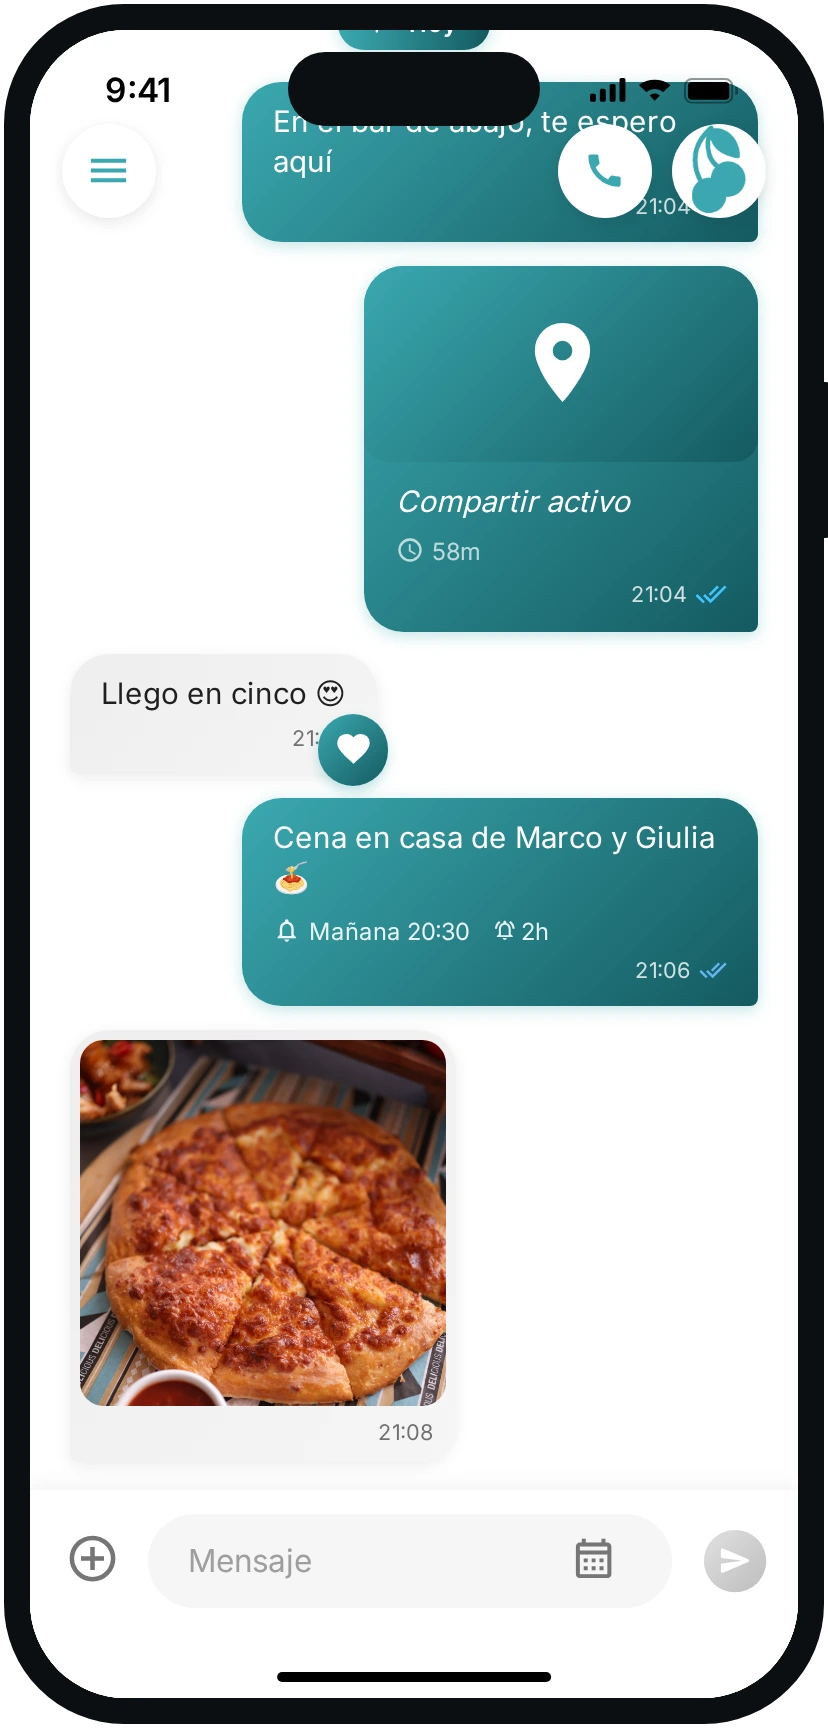
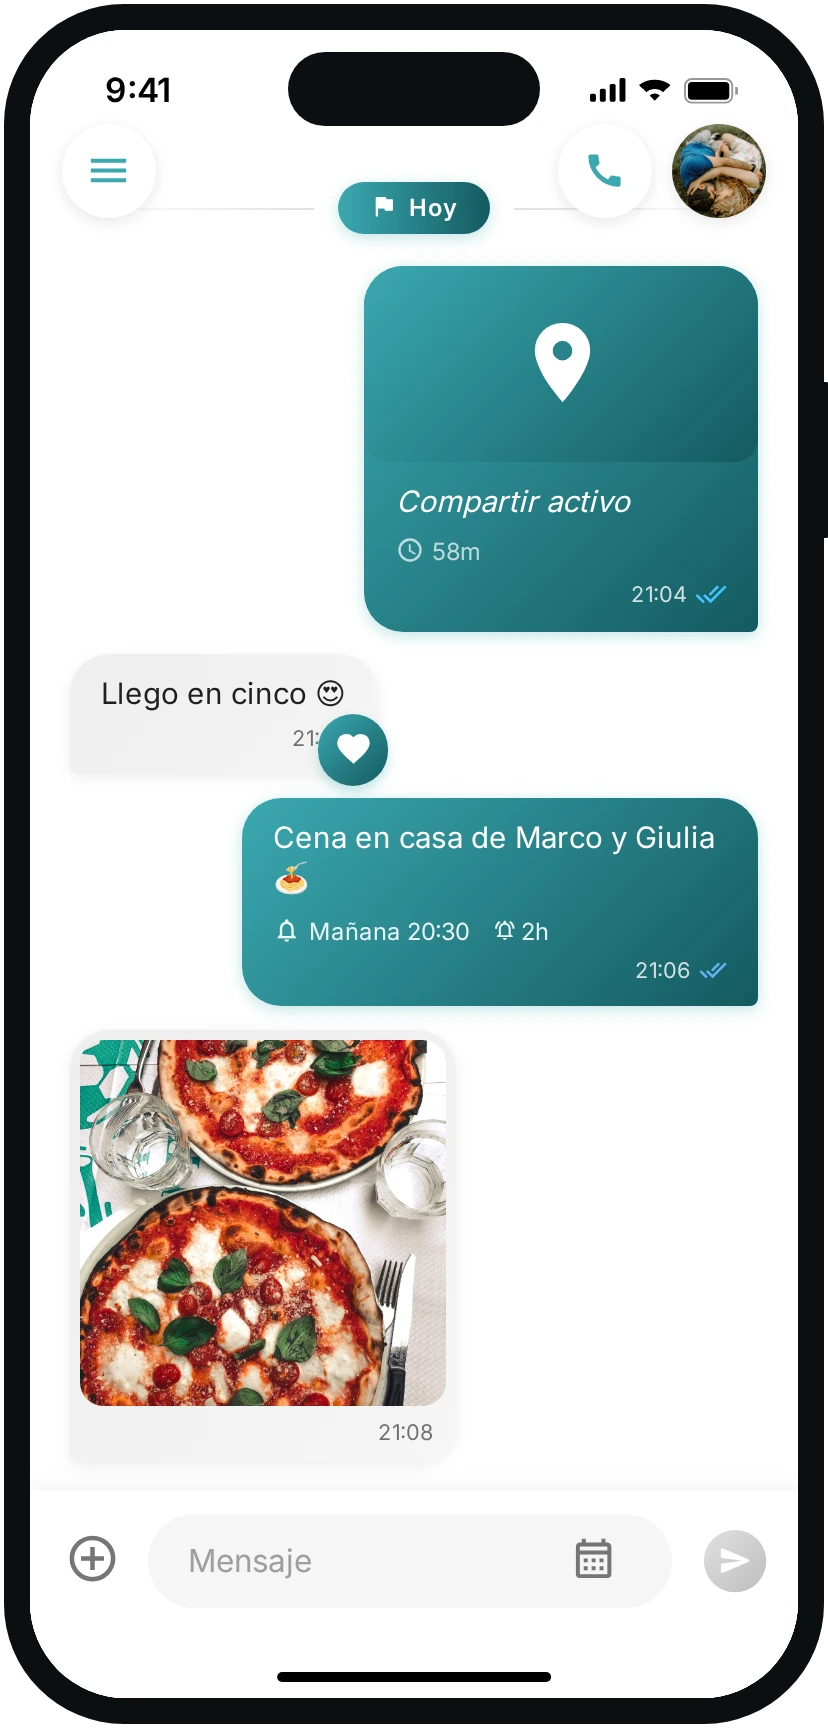
Sito: selfie di coppia, pizza nuova, primo screenshot pulito e sezione posizione
- Schermate: il tondo in alto a destra mostra il selfie di coppia
  (come fa l'app quando c'è) invece del logo; render.js passa la foto
  col nome che contiene "coppia".
- Foto in chat e in galleria: due margherite viste dall'alto (Pexels).
- Chat su telefono: via il primo messaggio, che finiva sotto i tondi
  in alto e restava tagliato.
- Nuova sezione Posizione (freccia e distanza dal vivo, condivisione
  di un'ora o otto, coordinate cifrate) nelle quattro lingue, con la
  schermata 03 generata per il sito.

Claude-Session: https://claude.ai/code/session_01BBD6GnvjY2gTQpajyv5XqT

Changed region(s): [[0.0906, 0.5938, 0.5435, 0.8125], [0.2717, 0.0312, 0.936, 0.1562], [0.3925, 0.0, 0.6039, 0.0312]]

diff --git a/store/screenshots/src/index.html b/store/screenshots/src/index.html
@@ -95,6 +95,7 @@ h1 { font-family: var(--display); font-weight: 800; font-size: 9.4vw; line-heigh
 .mio { font-family: 'Material Icons Outlined'; } .mir { font-family: 'Material Icons Round'; }
 .fab { width: 48px; height: 48px; border-radius: 50%; background: #fff; box-shadow: 0 2px 8px rgba(0,0,0,.10); display: flex; align-items: center; justify-content: center; color: #3BA8B0; }
 .fab img { width: 48px; height: 48px; border-radius: 50%; object-fit: cover; }
+.fab .selfie { width: 48px; height: 48px; border-radius: 50%; background: center 40% / cover; }
 .fab-l { position: absolute; z-index: 20; top: var(--fab-top); left: 16px; }
 .fab-r { position: absolute; z-index: 20; top: var(--fab-top); right: 16px; display: flex; gap: 10px; }
 
@@ -425,7 +426,8 @@ const shot = parseInt(q.get('shot') || '1', 10);
 const OFFSET = parseInt(q.get('off') || '0', 10);
 const PHOTOS_REAL = (q.get('photos') || '').split(',').filter(Boolean);   // file in img/photos/
 const LINKS_REAL = (q.get('links') || '').split(',').filter(Boolean);     // file in img/links/
-const CHAT_PHOTO = q.get('chatphoto') || '';                             // la foto dentro la chat   // px logici saltati dall'alto (device=card)
+const CHAT_PHOTO = q.get('chatphoto') || '';
+const AVATAR = q.get('avatar') || '';                                   // la foto di coppia nel tondo in alto a destra                             // la foto dentro la chat   // px logici saltati dall'alto (device=card)
 const t = UI[lang];
 const isCard = device === 'card';                        // ritaglio a scheda
 const isWeb = device === 'web' || device === 'webpair' || isCard;   // render per il sito
@@ -481,13 +483,18 @@ function todoBubble(side, text, when, alert, state, time) {
   return `<div class="row ${side}"><div class="bubble"><span style="${done ? 'text-decoration:line-through' : ''}">${text}</span>
     <div class="todorow">${mi(icon, 14, 'inherit', 'mio')}<span>${when}</span>${al}</div><div class="meta">${meta}</div></div></div>`;
 }
+// Il tondo in alto a destra: nell'app è il selfie di coppia, se l'avete
+// scattato (main_screen.dart, cachedSelfieBytes); altrimenti il logo.
+const avatar = () => AVATAR
+  ? `<span class="selfie" style="background-image:url('img/photos/${AVATAR}')"></span>`
+  : '<img src="img/logo_teal.png" alt="">';
 function fabs(withCall, tapCall) {
   // tapCall: l'alone del dito che preme la cornetta, per la sequenza del sito
   const call = withCall
     ? `<div class="tapwrap"><div class="fab">${mi('call', 22, '#3BA8B0')}</div>${tapCall ? '<div class="tapring"></div>' : ''}</div>`
     : '';
   return `<div class="fab-l"><div class="fab">${mi('menu', 24, '#3BA8B0')}</div></div>
-    <div class="fab-r">${call}<div class="fab"><img src="img/logo_teal.png" alt=""></div></div>`;
+    <div class="fab-r">${call}<div class="fab">${avatar()}</div></div>`;
 }
 function inputBar(draft) {
   // draft: il testo che l'altra persona sta scrivendo in questo momento
@@ -518,7 +525,7 @@ function chatScreen(mirror, tapCall) {
     ${earlier}
     ${datesep(t.today)}
     ${isTablet ? bubble(sd('them'), t.c1, '21:04', 'read') : ''}
-    ${bubble(sd('me'), t.c2, '21:04', 'read')}
+    ${isTablet ? bubble(sd('me'), t.c2, '21:04', 'read') : ''}
     ${locBubble(sd('me'))}
     ${bubble(sd('them'), t.c3, '21:05', 'read', 'favorite')}
     ${todoBubble(sd('me'), t.todo1, `${t.tomorrow} 20:30`, '2h', 'read', '21:06')}

diff --git a/store/screenshots/src/render.js b/store/screenshots/src/render.js
@@ -77,13 +77,16 @@ const outRoot = path.resolve(__dirname, opt('out', '../out'));
         // la foto che compare dentro la chat: quella col nome che contiene "chat"
         const chatPic = real.find((f) => /chat/i.test(f)) || real[0];
         const chatPhoto = chatPic ? `&chatphoto=${chatPic}` : '';
+        // il selfie di coppia nel tondo in alto a destra: la foto col nome che contiene "coppia"
+        const avatarPic = real.find((f) => /coppia/i.test(f));
+        const avatar = avatarPic ? `&avatar=${avatarPic}` : '';
         // anteprime vere per la scheda dei link, se ce ne sono
         const linkDir = path.join(__dirname, 'img', 'links');
         const realLinks = fs.existsSync(linkDir)
           ? fs.readdirSync(linkDir).filter((f) => /\.(jpe?g|png|webp)$/i.test(f)).sort()
           : [];
         const links = realLinks.length ? `&links=${realLinks.join(',')}` : '';
-        const url = `${html}?device=${cfg.device}&lang=${lang}&shot=${shot}${shot2}${off}${photos}${chatPhoto}${links}`;
+        const url = `${html}?device=${cfg.device}&lang=${lang}&shot=${shot}${shot2}${off}${photos}${chatPhoto}${avatar}${links}`;
         await page.addInitScript((sel) => { window.__clipSel = sel; }, cfg.clipSel || '.device');
         await page.goto(url, { waitUntil: 'load' });
         await page.evaluate(() => document.fonts.ready);

diff --git a/public/es.html b/public/es.html
@@ -123,6 +123,18 @@
     </div>
   </div>
 </section>
+<section class="stage split dark">
+  <div class="wrap">
+    <div class="copy">
+      <span class="eyebrow reveal">Dónde estás</span>
+      <h2 class="reveal">¿Dónde estás? <span class="serif-em">Mira, aquí.</span></h2>
+      <p class="lead reveal d1">Un toque y el otro ve cuánto falta y hacia dónde ir: una flecha y la distancia, actualizadas en directo. Compartir dura una hora u ocho, luego se apaga solo, y las coordenadas viajan cifradas.</p>
+    </div>
+    <div class="shot reveal d1">
+      <img src="assets/shots/es/03-es.webp" width="828" height="1728" loading="lazy" data-move="26" alt="La ubicación compartida en Tuijo: una flecha que indica la dirección y la distancia, 350 metros.">
+    </div>
+  </div>
+</section>
 
 <!-- ============ SICUREZZA ============ -->
 <section class="security" id="sicurezza">

diff --git a/public/index.html b/public/index.html
@@ -123,6 +123,18 @@
     </div>
   </div>
 </section>
+<section class="stage split dark">
+  <div class="wrap">
+    <div class="copy">
+      <span class="eyebrow reveal">Dove sei</span>
+      <h2 class="reveal">Dove sei? <span class="serif-em">Te lo mostro.</span></h2>
+      <p class="lead reveal d1">Un tocco e l'altro vede quanto manca e da che parte andare: una freccia e la distanza, aggiornate dal vivo. La condivisione dura un'ora o otto, poi si spegne da sola, e le coordinate viaggiano cifrate.</p>
+    </div>
+    <div class="shot reveal d1">
+      <img src="assets/shots/it/03-it.webp" width="828" height="1728" loading="lazy" data-move="26" alt="La posizione condivisa in Tuijo: una freccia che indica la direzione e la distanza, 350 metri.">
+    </div>
+  </div>
+</section>
 
 <!-- ============ SICUREZZA ============ -->
 <section class="security" id="sicurezza">

diff --git a/public/en.html b/public/en.html
@@ -123,6 +123,18 @@
     </div>
   </div>
 </section>
+<section class="stage split dark">
+  <div class="wrap">
+    <div class="copy">
+      <span class="eyebrow reveal">Where are you</span>
+      <h2 class="reveal">Where are you? <span class="serif-em">Here, look.</span></h2>
+      <p class="lead reveal d1">One tap and the other sees how far you are and which way to go: an arrow and the distance, updated live. Sharing lasts one hour or eight, then switches itself off, and the coordinates travel encrypted.</p>
+    </div>
+    <div class="shot reveal d1">
+      <img src="assets/shots/en/03-en.webp" width="828" height="1728" loading="lazy" data-move="26" alt="Location sharing in Tuijo: an arrow pointing the way and the distance, 350 metres.">
+    </div>
+  </div>
+</section>
 
 <!-- ============ SICUREZZA ============ -->
 <section class="security" id="sicurezza">

diff --git a/public/ca.html b/public/ca.html
@@ -123,6 +123,18 @@
     </div>
   </div>
 </section>
+<section class="stage split dark">
+  <div class="wrap">
+    <div class="copy">
+      <span class="eyebrow reveal">On ets</span>
+      <h2 class="reveal">On ets? <span class="serif-em">Mira, aquí.</span></h2>
+      <p class="lead reveal d1">Un toc i l'altre veu quant falta i cap a on anar: una fletxa i la distància, actualitzades en directe. Compartir dura una hora o vuit, després s'apaga sol, i les coordenades viatgen xifrades.</p>
+    </div>
+    <div class="shot reveal d1">
+      <img src="assets/shots/ca/03-ca.webp" width="828" height="1728" loading="lazy" data-move="26" alt="La ubicació compartida a Tuijo: una fletxa que indica la direcció i la distància, 350 metres.">
+    </div>
+  </div>
+</section>
 
 <!-- ============ SICUREZZA ============ -->
 <section class="security" id="sicurezza">

diff --git a/store/site/build_site.py b/store/site/build_site.py
@@ -281,6 +281,24 @@ BAK = {'it': {'bak_eyebrow': 'Backup',
 for _c, _b in BAK.items():
     T[_c].update(_b)
 
+# Sezione posizione: si aggiunge in coda ai testi, quindi è la numero 4.
+LOC = {
+    'it': ('Dove sei', 'Dove sei? <span class="serif-em">Te lo mostro.</span>',
+           "Un tocco e l'altro vede quanto manca e da che parte andare: una freccia e la distanza, aggiornate dal vivo. La condivisione dura un'ora o otto, poi si spegne da sola, e le coordinate viaggiano cifrate.",
+           'La posizione condivisa in Tuijo: una freccia che indica la direzione e la distanza, 350 metri.'),
+    'en': ('Where are you', 'Where are you? <span class="serif-em">Here, look.</span>',
+           "One tap and the other sees how far you are and which way to go: an arrow and the distance, updated live. Sharing lasts one hour or eight, then switches itself off, and the coordinates travel encrypted.",
+           'Location sharing in Tuijo: an arrow pointing the way and the distance, 350 metres.'),
+    'es': ('Dónde estás', '¿Dónde estás? <span class="serif-em">Mira, aquí.</span>',
+           "Un toque y el otro ve cuánto falta y hacia dónde ir: una flecha y la distancia, actualizadas en directo. Compartir dura una hora u ocho, luego se apaga solo, y las coordenadas viajan cifradas.",
+           'La ubicación compartida en Tuijo: una flecha que indica la dirección y la distancia, 350 metros.'),
+    'ca': ('On ets', 'On ets? <span class="serif-em">Mira, aquí.</span>',
+           "Un toc i l'altre veu quant falta i cap a on anar: una fletxa i la distància, actualitzades en directe. Compartir dura una hora o vuit, després s'apaga sol, i les coordenades viatgen xifrades.",
+           'La ubicació compartida a Tuijo: una fletxa que indica la direcció i la distància, 350 metres.'),
+}
+for _c, _s in LOC.items():
+    T[_c]['sections'].append(_s)
+
 SEC_IDS = ['chat', 'sicurezza', 'faq']   # ancore uguali in tutte le lingue
 
 # Impianto di ciascuna delle sei sezioni prodotto, nell'ordine.
@@ -298,6 +316,7 @@ LAYOUT = [
     dict(sec=1, cls='split',     img='reel', shots=[(5, 2600), (11, 2600), (12, 2600)],
          dark=True),                                                                  # galleria: foto, link, documenti
     dict(sec=2, cls='split rev', shot=2, img='phone', dark=False),                    # chiamate: la schermata di chiamata
+    dict(sec=4, cls='split',     shot=3, img='phone', dark=True),                     # posizione: freccia e distanza
 ]
 
 

diff --git a/store/screenshots/src/img/photos/README.md b/store/screenshots/src/img/photos/README.md
@@ -9,6 +9,8 @@ Due convenzioni sui nomi:
 
 - un file che contiene **`chat`** nel nome è anche la foto che compare dentro la
   conversazione, nel messaggio delle 21:08;
+- un file che contiene **`coppia`** nel nome è anche il selfie di coppia nel
+  tondo in alto a destra (nell'app è `cachedSelfieBytes` in `main_screen.dart`);
 - un file che comincia con **`_`** viene ignorato: sta qui ma non finisce da
   nessuna parte.
 
@@ -16,8 +18,8 @@ Due convenzioni sui nomi:
 
 | File | Soggetto | Dove si vede | Autore (Pexels) |
 |---|---|---|---|
-| `01-coppia-prato.jpg` | Coppia sdraiata sull'erba | prima tessera | Habib Hosseini |
-| `02-chat-pizza.jpg` | Pizza al tavolo | seconda tessera **e foto in chat** | Valeriya |
+| `01-coppia-prato.jpg` | Coppia sdraiata sull'erba | prima tessera **e selfie in alto a destra** | Habib Hosseini |
+| `02-chat-pizza.jpg` | Due margherite viste dall'alto | seconda tessera **e foto in chat** | Pexels, foto 2147491 |
 | `03-venezia.jpg` | Canale di Venezia | terza tessera | Aisha Serafini |
 | `04-deserto.jpg` | Dune | quarta tessera | Lost Boy |
 | `05-colosseo.jpg` | Colosseo fra i pini | quinta tessera | Maurits Bausenhart |
